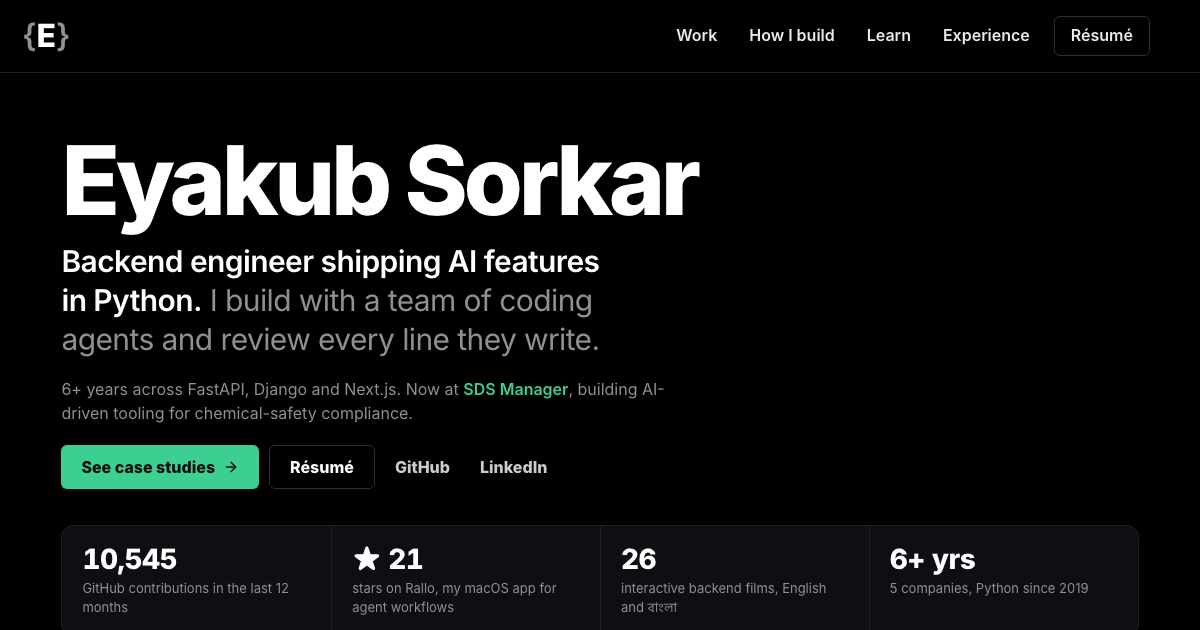
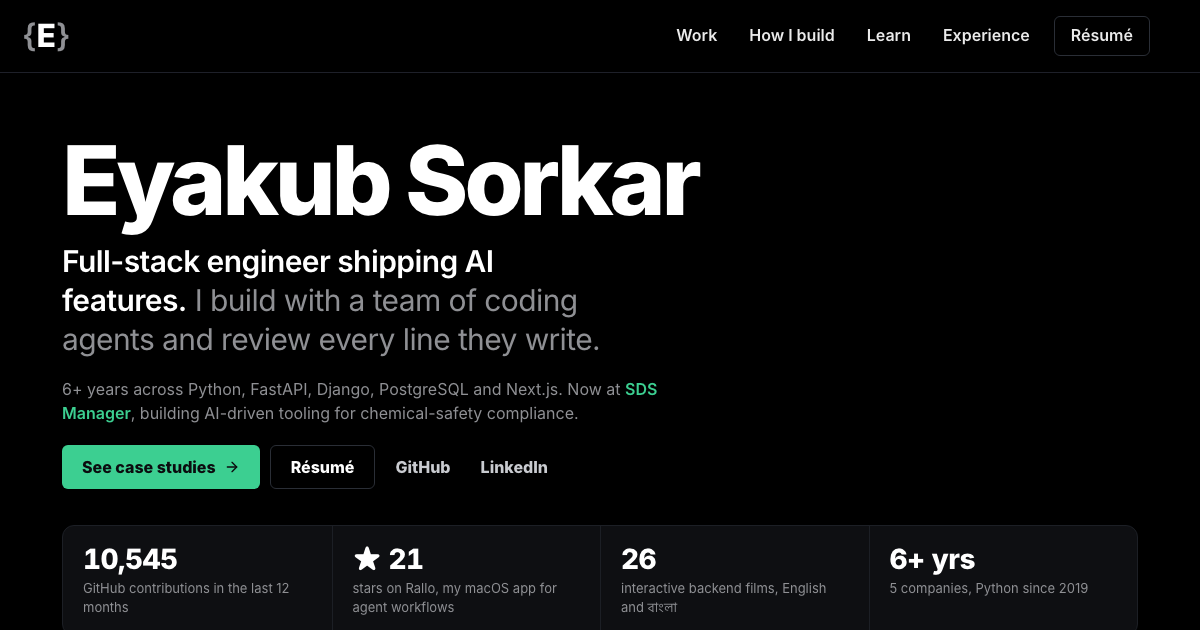
fix(home): full-stack positioning and mailto contact

diff --git a/components/ContactMe.js b/components/ContactMe.js
@@ -1,23 +1,9 @@
-import { useRef, useState } from 'react'
-import { Box, Button, Heading, Stack, Text } from '@chakra-ui/react'
+import { Button, Heading, Stack, Text } from '@chakra-ui/react'
 import { MONO } from './SectionHead'
 
 const EMAIL = 'eyakubsorkar@gmail.com'
 
 export default function ContactMe() {
-  const [copied, setCopied] = useState(false)
-  const mailRef = useRef(null)
-
-  const copy = async () => {
-    try {
-      await navigator.clipboard.writeText(EMAIL)
-      setCopied(true)
-      setTimeout(() => setCopied(false), 1800)
-    } catch {
-      window.getSelection().selectAllChildren(mailRef.current)
-    }
-  }
-
   return (
     <Stack
       as="section"
@@ -38,38 +24,26 @@ export default function ContactMe() {
         letterSpacing="-0.035em"
         sx={{ textWrap: 'balance' }}
       >
-        Working on backend or AI systems? Let&apos;s talk.
+        Building something with AI in it? Let&apos;s talk.
       </Heading>
       <Text maxW="56ch" color="textSecondary">
         Email is fastest. I&apos;m in Dhaka (UTC+6).
       </Text>
       <Stack direction="row" flexWrap="wrap" spacing={0} gap="10px" align="center">
-        <Box
-          ref={mailRef}
-          px="14px"
-          py="10px"
-          border="1px solid #2a2e36"
-          borderRadius="8px"
-          color="displayColor"
-          fontFamily={MONO}
-          fontSize="15px"
-          fontWeight="500"
-          overflowWrap="anywhere"
-          sx={{ userSelect: 'all' }}
-        >
-          {EMAIL}
-        </Box>
         <Button
-          onClick={copy}
+          as="a"
+          href={`mailto:${EMAIL}`}
           minH="44px"
           px="20px"
           bg="button1"
           color="#0b0c0f"
-          fontWeight="700"
+          fontFamily={MONO}
+          fontWeight="600"
+          overflowWrap="anywhere"
+          whiteSpace="normal"
           _hover={{ bg: '#34b67e' }}
-          aria-live="polite"
         >
-          {copied ? 'Copied' : 'Copy email'}
+          {EMAIL}
         </Button>
         <Button
           as="a"

diff --git a/pages/index.js b/pages/index.js
@@ -10,9 +10,9 @@ import WorkExperience from '../components/WorkExperience'
 import ContactMe from '../components/ContactMe'
 import HomeFooter from '../components/HomeFooter'
 
-const TITLE = 'Eyakub Sorkar · Backend + AI engineer'
+const TITLE = 'Eyakub Sorkar · Full-stack + AI engineer'
 const DESCRIPTION =
-  'Backend engineer in Dhaka shipping AI features in Python. FastAPI, Django, Next.js, and a team of coding agents.'
+  'Full-stack engineer in Dhaka shipping AI features. Python, FastAPI, Django, PostgreSQL, Next.js, and a team of coding agents.'
 const URL = 'https://eyakub.github.io/'
 const OG_IMAGE = 'https://eyakub.github.io/og.png'
 
@@ -25,7 +25,7 @@ const PERSON = {
   address: { '@type': 'PostalAddress', addressLocality: 'Dhaka', addressCountry: 'BD' },
   url: URL,
   sameAs: ['https://github.com/Eyakub', 'https://linkedin.com/in/eyakub-sorkar'],
-  knowsAbout: ['Python', 'FastAPI', 'Django', 'LLMs', 'RAG', 'Docker', 'Kubernetes'],
+  knowsAbout: ['Python', 'FastAPI', 'Django', 'PostgreSQL', 'Next.js', 'LLMs', 'RAG', 'Docker', 'Kubernetes', 'Rust', 'Swift'],
 }
 
 export default function Index() {

diff --git a/components/Introduction.js b/components/Introduction.js
@@ -27,12 +27,12 @@ export default function Introduction() {
           sx={{ textWrap: 'balance' }}
         >
           <Box as="strong" color="displayColor" fontWeight="600">
-            Backend engineer shipping AI features in Python.
+            Full-stack engineer shipping AI features.
           </Box>{' '}
           I build with a team of coding agents and review every line they write.
         </Text>
         <Text maxW="60ch" color="textSecondary">
-          6+ years across FastAPI, Django and Next.js. Now at{' '}
+          6+ years across Python, FastAPI, Django, PostgreSQL and Next.js. Now at{' '}
           <Link href="https://sdsmanager.com/" isExternal color="button1" fontWeight="600">
             SDS Manager
           </Link>
